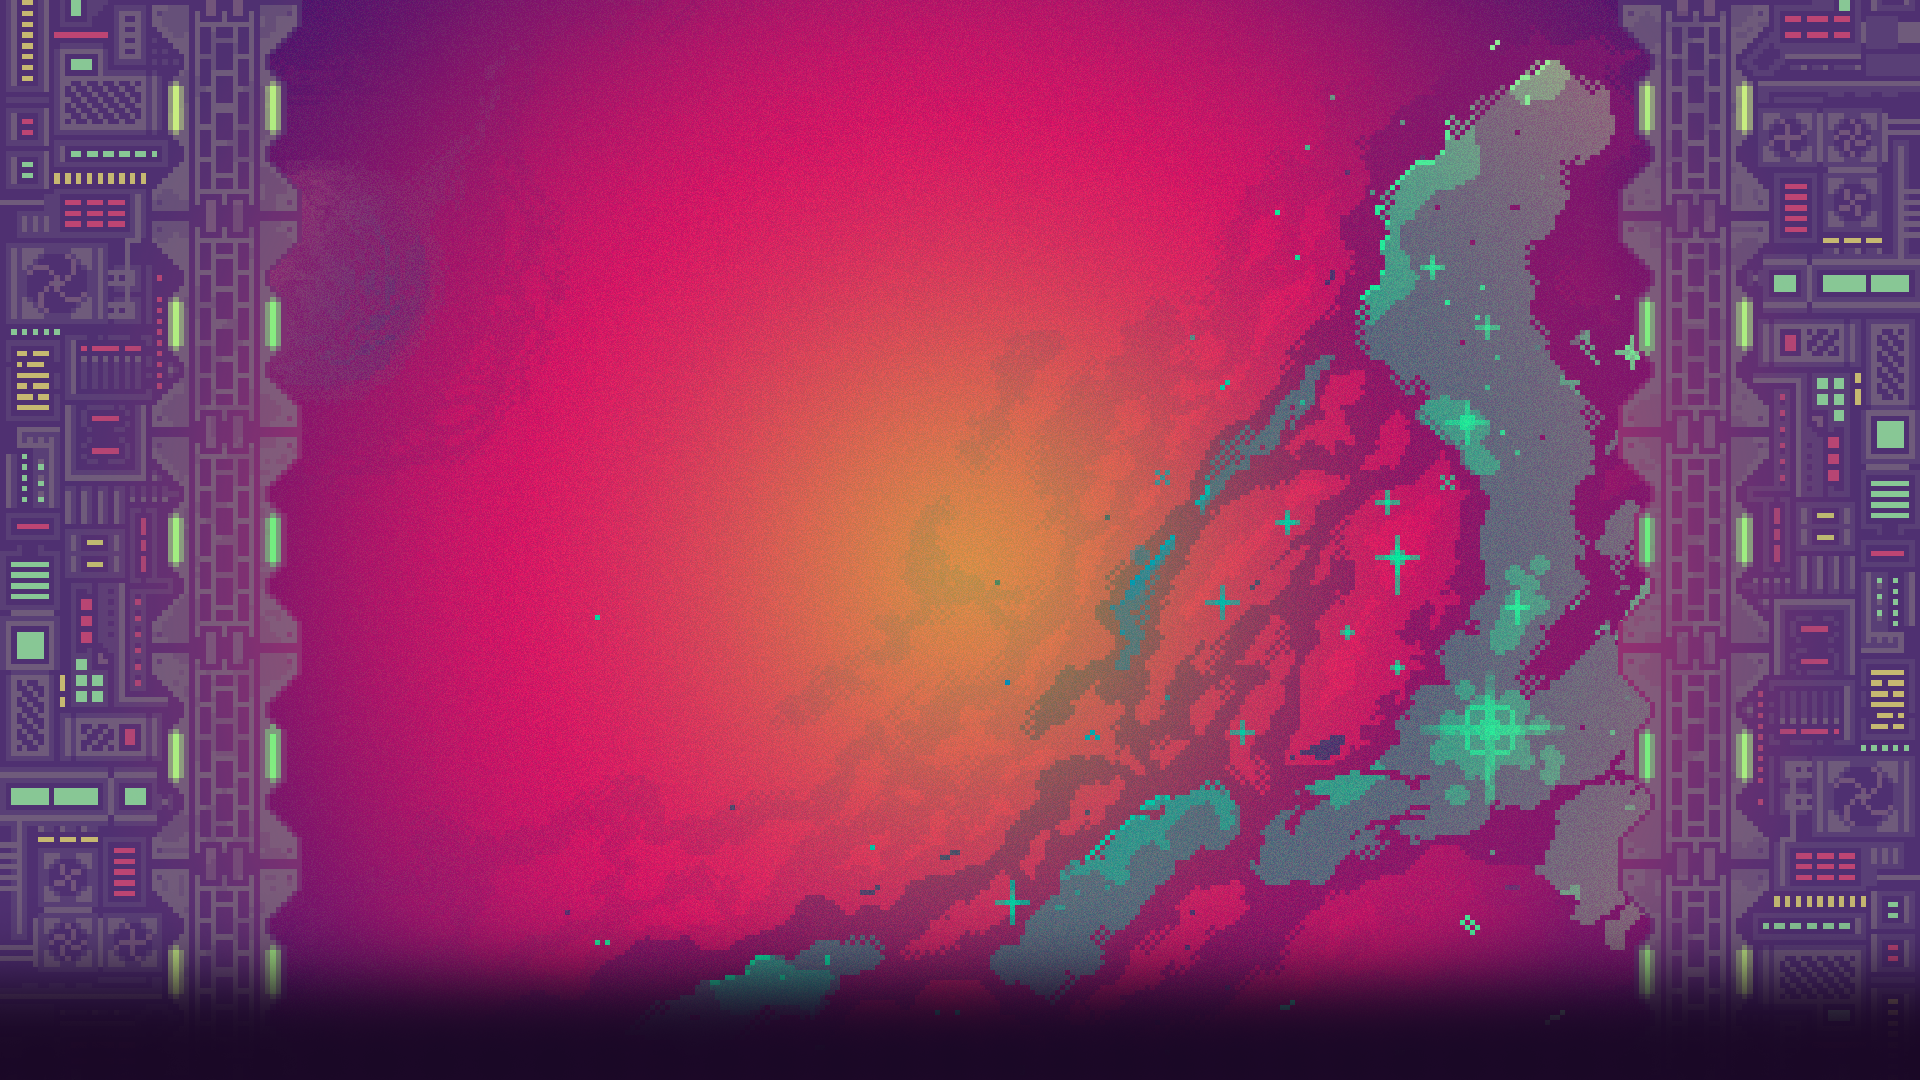
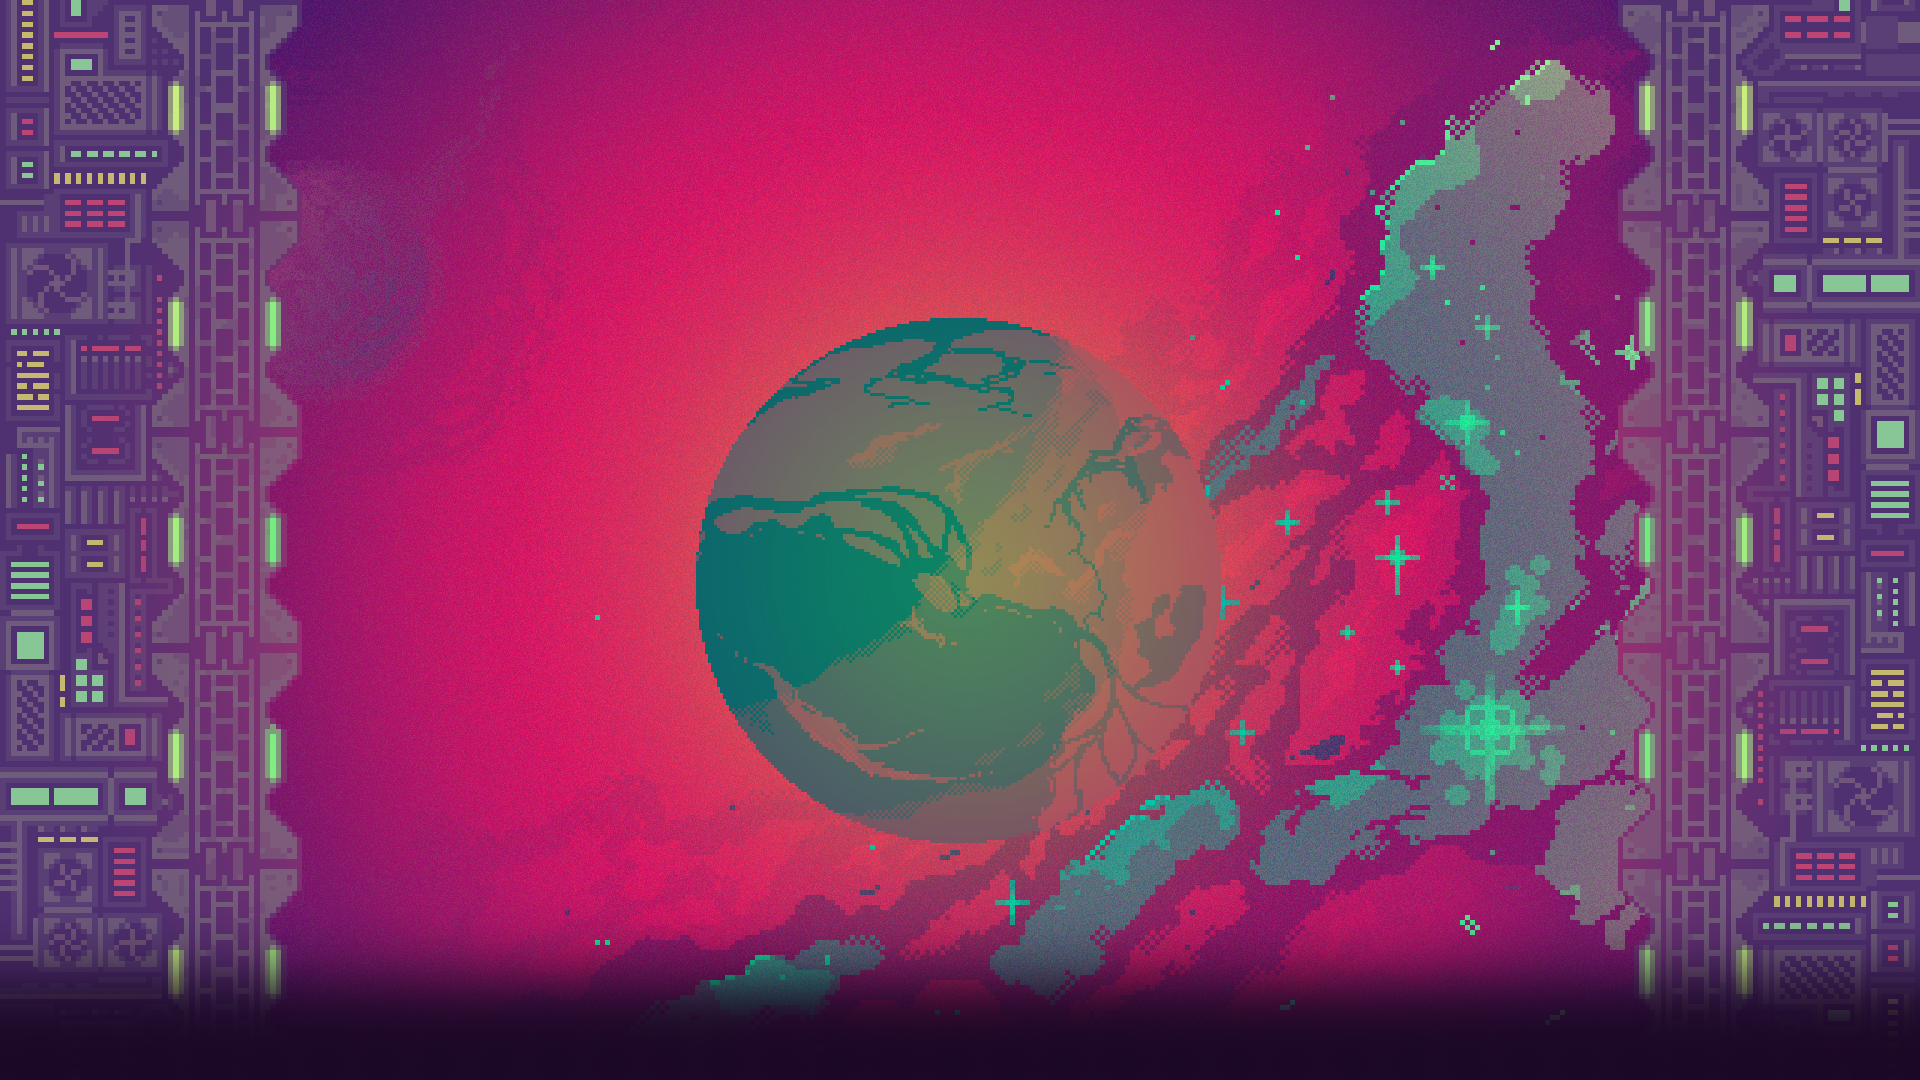
fixed planet

Changed region(s): [[0.3438, 0.275, 0.6562, 0.7944]]

diff --git a/src/components/Roadmap/Roadmap.jsx b/src/components/Roadmap/Roadmap.jsx
@@ -9,10 +9,10 @@ export default function Roadmap() {
                 <h2> <b><i>Book 1 — GENESIS</i></b> </h2>
                 <div class="container">
                     <div class="row Roadmap-container">
-                        <div class="col">
+                        <div class="col-sm">
                             <h1><b style={{ fontSize: '0.6em' }}>Chapter 1</b> <hr />Birth of <br /> an Empire</h1>
                         </div>
-                        <div class="col Roadmap-container-item">
+                        <div class="col-sm Roadmap-container-item">
                             <ul>
                                 <li>✅ Build the Discord Server</li>
                                 <li>✅ Create the Twitter account</li>
@@ -24,7 +24,7 @@ export default function Roadmap() {
 
                         <div class="w-100 my-3"></div>
 
-                        <div class="col Roadmap-container-item">
+                        <div class="col-sm Roadmap-container-item">
                             <ul>
                                 <li>✅ Collaborate with Different <br /> NFT Projects and Groups Pre-Mint</li>
                                 <li>Produce 3333 Reaver NFTs, 1111 of each Class</li>
@@ -32,16 +32,16 @@ export default function Roadmap() {
                                 <li>Engage with the Community</li>
                             </ul>
                         </div>
-                        <div class="col">
+                        <div class="col-sm">
                             <h1><b style={{ fontSize: '0.6em' }}>Chapter 2</b> <hr /> The Expansion</h1>
                         </div>
 
                         <div class="w-100 my-3"></div>
 
-                        <div class="col ">
+                        <div class="col-sm ">
                             <h1><b style={{ fontSize: '0.6em' }}>Chapter 3</b> <hr />The Conquest</h1>
                         </div>
-                        <div class="col Roadmap-container-item">
+                        <div class="col-sm Roadmap-container-item">
                             <ul>
                                 <li>Finalize minting parameters</li>
                                 <li>Sell out 3333 Reaver NFTs</li>
@@ -60,10 +60,10 @@ export default function Roadmap() {
                         <hr />
                         <h2> <b><i>Book 2 — EXODUS</i></b> </h2>
                         <div class="row Roadmap-container">
-                            <div class="col">
+                            <div class="col-sm">
                                 <h1><b style={{ fontSize: '0.6em' }}>Chapter 1</b> <hr />Promethean Trials</h1>
                             </div>
-                            <div class="col Roadmap-container-item">
+                            <div class="col-sm Roadmap-container-item">
                                 <ul>
                                     <li>Reveal Utilities and Features of Promethean Reaver NFT</li>
                                     <ul>
@@ -84,12 +84,12 @@ export default function Roadmap() {
                             <div class="w-100 my-3"></div>
 
                             <div className='Roadmap-fade row'>
-                                <div class="col Roadmap-container-item">
+                                <div class="col-sm Roadmap-container-item">
                                     <ul>
                                         <li>More to come...</li>
                                     </ul>
                                 </div>
-                                <div class="col">
+                                <div class="col-sm">
                                     <h1><b style={{ fontSize: '0.6em' }}>Chapter X</b> <hr />More to Come...</h1>
                                 </div>
                             </div>

diff --git a/src/components/Intro/Intro.jsx b/src/components/Intro/Intro.jsx
@@ -32,7 +32,7 @@ export default function Intro() {
             </nav>
 
             <section className='Intro_header'>
-                <img src='./images/logo-planet.png' className='Intro_planet' alt='' />
+                 {/* <img src='./images/logo-planet.png' className='Intro_planet' alt='' /> */}
                 <img src='./images/logo-primary.png' className='Intro_logo' alt='' />
             </section>
         </div>

diff --git a/src/components/Intro/Intro.css b/src/components/Intro/Intro.css
@@ -31,12 +31,11 @@
 }
 
 .Intro_logo {
-    max-width: 95%;
+    max-width: 80%;
     z-index: 1;
 }
 
 .Intro_planet {
-    animation: MoveUpDown 3s linear infinite;
     max-width: 400px;
     position: absolute;
 }
